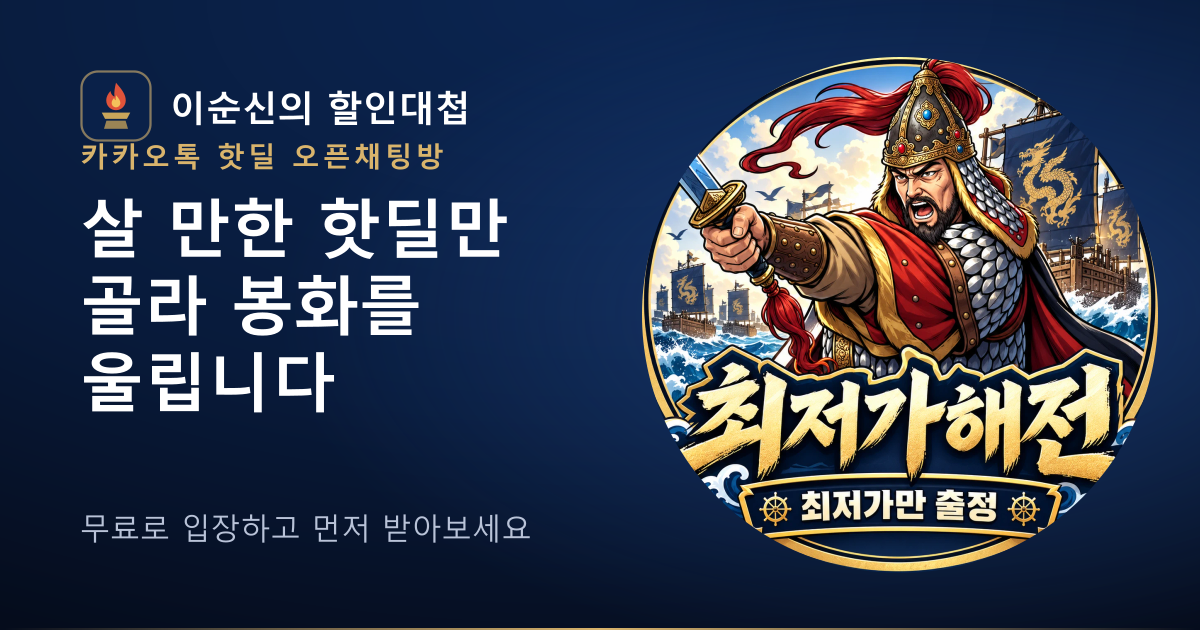
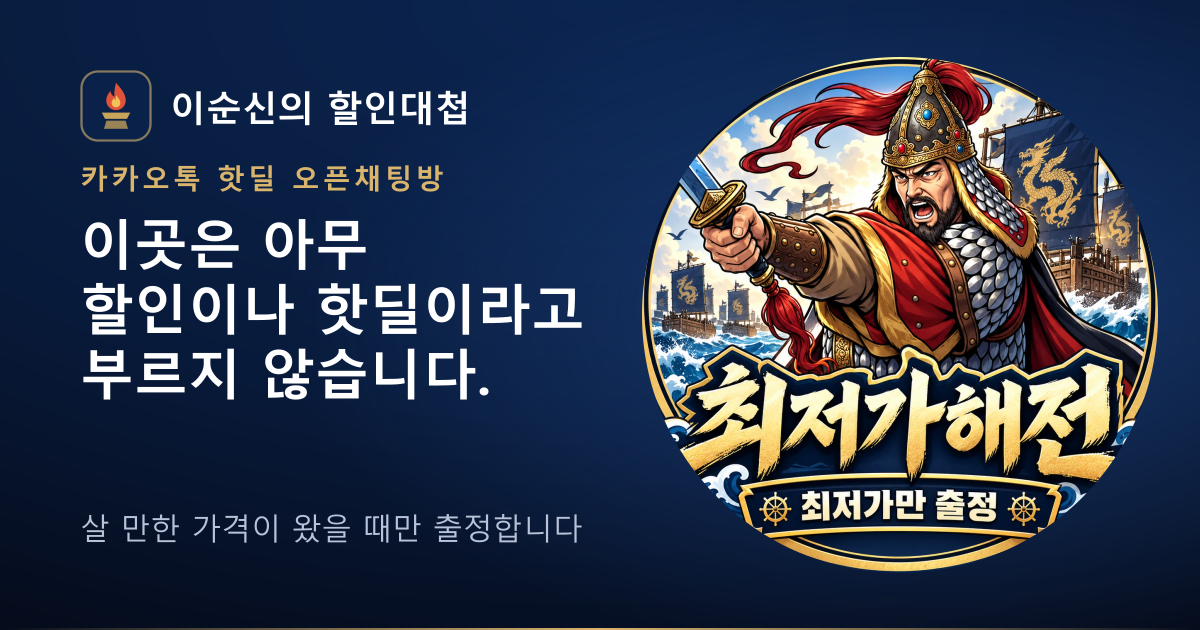
히어로 문구 변경

Changed region(s): [[0.0617, 0.2111, 0.4933, 0.6635], [0.0617, 0.8143, 0.4933, 0.8746]]

diff --git a/src/lib/site.ts b/src/lib/site.ts
@@ -1,7 +1,8 @@
 import config from '../../site.config.mjs';
 
 export const SITE_NAME = '이순신의 할인대첩';
-export const TAGLINE = '살 만한 핫딜만 골라 봉화를 울립니다';
+export const TAGLINE = '이곳은 아무 할인이나 핫딜이라고 부르지 않습니다.';
+export const TAGLINE_SUB = '가격을 비교하고, 살 만한 가격이 왔을 때만 출정합니다.';
 
 const OPEN_CHAT_PATTERN = /^https:\/\/open\.kakao\.com\/o\/[A-Za-z0-9]+$/;
 
